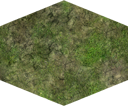
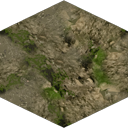
updated images to 128x128

diff --git a/res/js/isogrid.js b/res/js/isogrid.js
@@ -4,8 +4,7 @@ jQuery(function($){
     // settings
     var settings = {
       map: {},
-      tileWidth: 128,
-      tileHeight: 106
+      tileSize: 128
     };
 
     // custom settings
@@ -64,18 +63,20 @@ jQuery(function($){
     el.html(renderer.domElement);
 
     // geo setup
-
-    var plane = new THREE.Mesh(new THREE.PlaneGeometry(128, 106, 4, 4),
+    var plane = new THREE.Mesh(new THREE.PlaneGeometry(
+      settings.tileSize, settings.tileSize, 4, 4),
       materials.ground);
     scene.add(plane);
-    var plane2 = new THREE.Mesh(new THREE.PlaneGeometry(128, 106, 4, 4),
+    var plane2 = new THREE.Mesh(new THREE.PlaneGeometry(
+      settings.tileSize, settings.tileSize, 4, 4),
       materials.water);
     plane2.position.x +=  128;
     scene.add(plane2);
-    var plane3 = new THREE.Mesh(new THREE.PlaneGeometry(128, 106, 4, 4),
+    var plane3 = new THREE.Mesh(new THREE.PlaneGeometry(
+      settings.tileSize, settings.tileSize, 4, 4),
       materials.water);
-    plane3.position.x +=  64;
-    plane3.position.y += Math.floor(106*3/4);
+    plane3.position.x +=  settings.tileSize/2;
+    plane3.position.y += Math.floor(settings.tileSize*3/4);
     scene.add(plane3);
 
     // render scene
